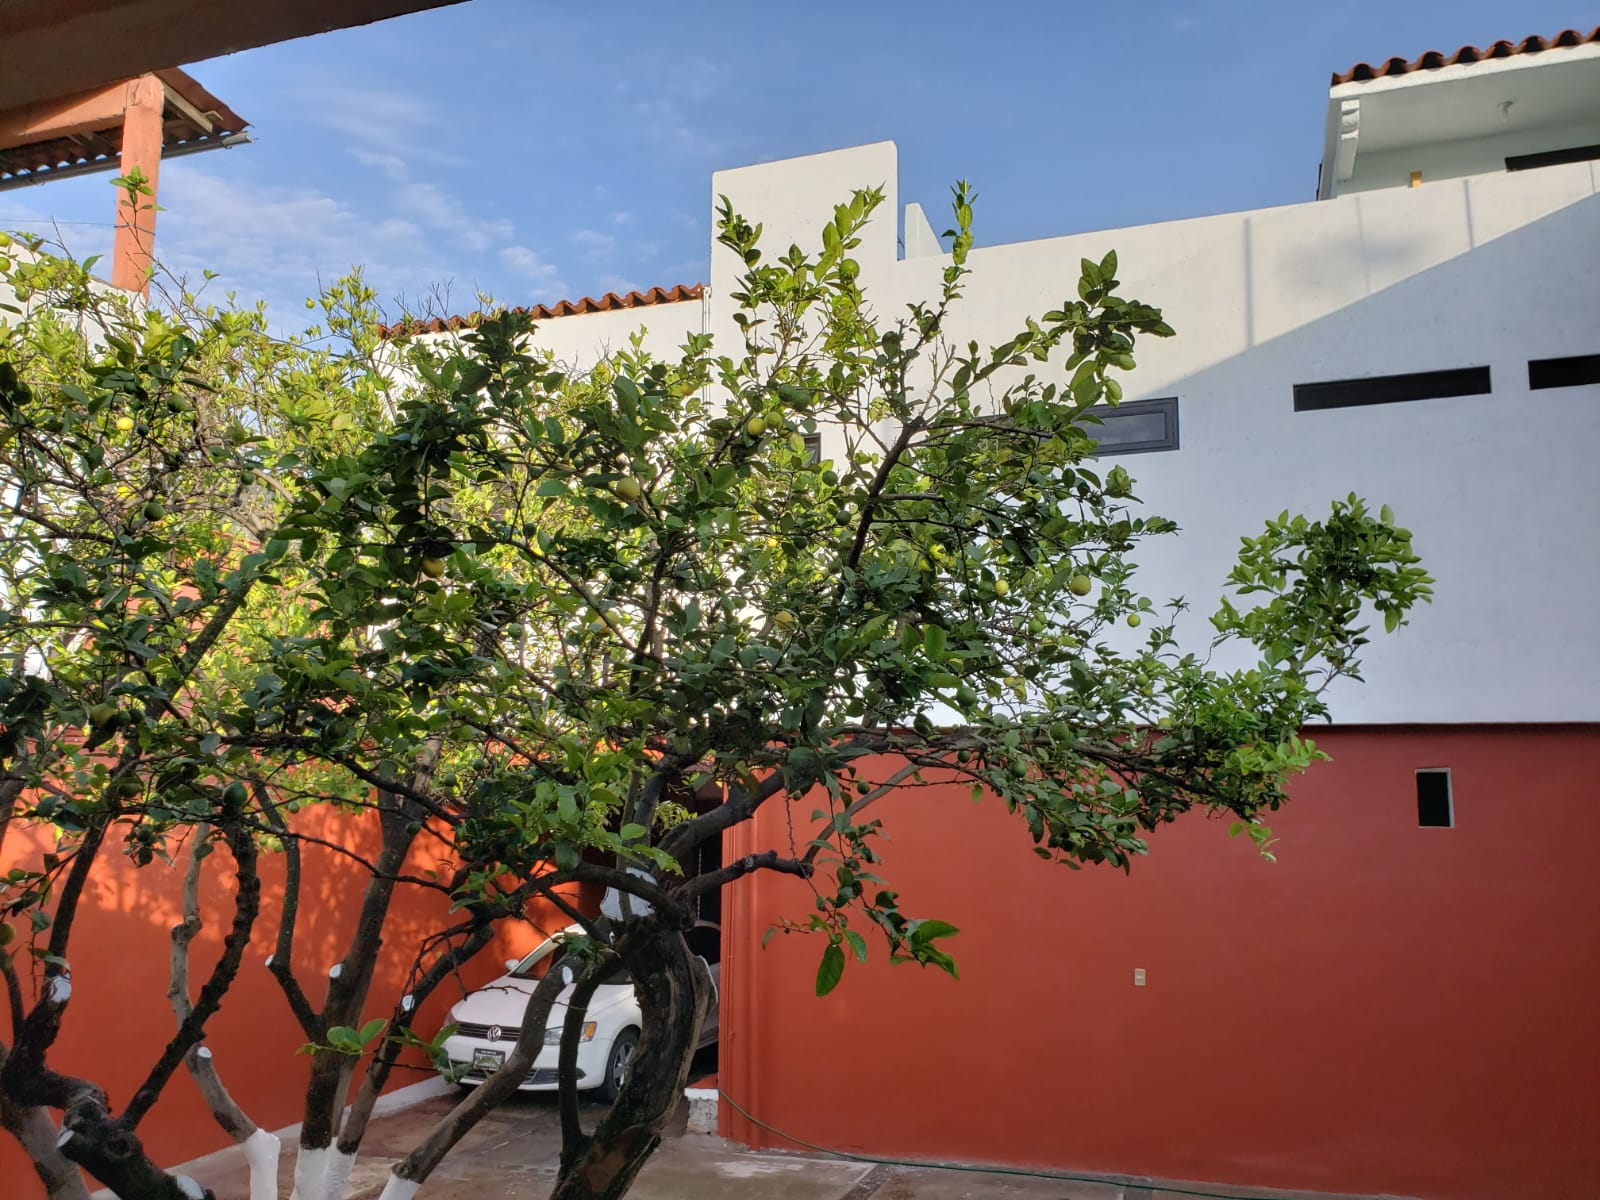
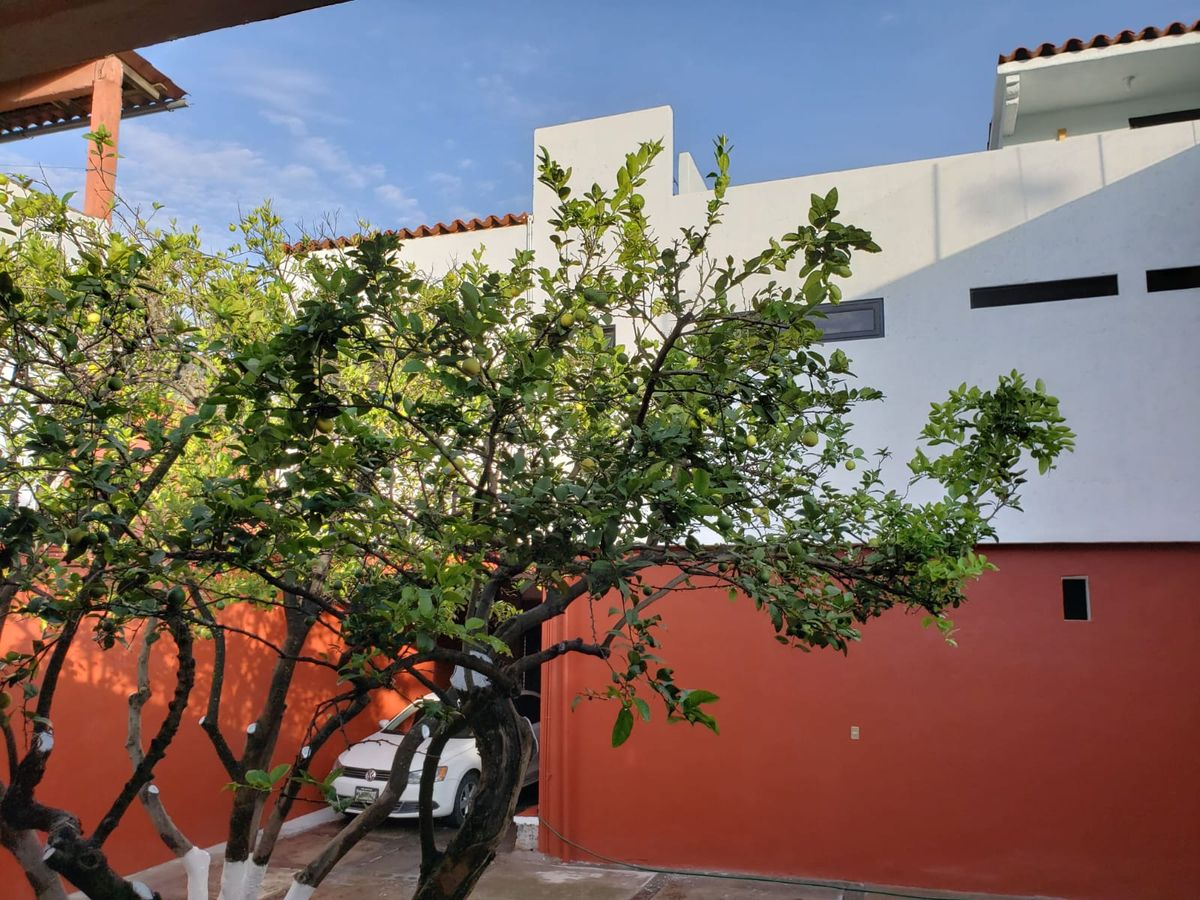
Perf: imágenes de propiedades a WebP + JPG recomprimido (#33)
* SEO: reescribe titles y meta descriptions de 9 posts (posicion 6-9) para subir CTR

Optimiza el title y la meta description de los posts con muchas impresiones
y CTR bajo (1-2%) en Search Console, poniendo la keyword al frente y un
angulo de destino/escapada alineado al objetivo de reserva directa.

Posts: malinalxochitl-leyenda, guerreros-aguila-jaguar, fiesta-divino-salvador,
malinalco-pueblo-magico-historia, 10-restaurantes-malinalco, subida-cerro-idolos,
convento-agustino-malinalco, donde-desayunar-malinalco, casa-de-las-aguilas.

Solo se tocan <title> y <meta name=description>; og:/twitter y JSON-LD intactos.

Claude-Session: https://claude.ai/code/session_01LVtjr9evHjkHtEahRNAHYH

* Home: enlaza la money page 'donde hospedarse' desde la seccion de blog

Agrega una 4a blog-card en el home que apunta a /blog/donde-hospedarse-malinalco/
con anchor text keyword-rich. El home es la pagina con mas autoridad del sitio;
este enlace interno ayuda a subir esa money page (hoy en posicion ~14 en Search
Console) y canaliza trafico a la reserva directa.

Claude-Session: https://claude.ai/code/session_01LVtjr9evHjkHtEahRNAHYH

* Money-page treatment para escapada-romantica y con-familia

Agrega a ambos posts los 2 elementos de conversion que les faltaban vs la
guia de hospedaje, para reforzar la intencion de reserva:
- Stat-box de confianza tras el hero (8 anios, 4.93, +400 resenias, desde
  $600, centro, -20% vs Airbnb) con estilos inline y rejilla responsive.
[…]

Changed region(s): [[0.3083, 0.3733, 0.3392, 0.4044], [0.0925, 0.3422, 0.1233, 0.3733]]

diff --git a/index.html b/index.html
@@ -1238,7 +1238,7 @@
 
       <!-- CANTERA -->
       <div class="depto-card">
-        <img src="./images/propiedades/depa-cantera.jpeg" alt="Departamento Cantera en Malinalco - Cantera y Calma" class="depto-img" loading="lazy">
+        <picture style="display:block"><source srcset="./images/propiedades/depa-cantera.webp" type="image/webp"><img src="./images/propiedades/depa-cantera.jpeg" alt="Departamento Cantera en Malinalco - Cantera y Calma" class="depto-img" loading="lazy"></picture>
         <div class="depto-body">
           <span class="depto-badge">Depa completo</span>
           <h3 class="depto-name">Departamento Cantera</h3>
@@ -1269,7 +1269,7 @@
 
       <!-- CALMA -->
       <div class="depto-card">
-        <img src="./images/propiedades/depa-calma.jpeg" alt="Departamento Calma en Malinalco - Cantera y Calma" class="depto-img" loading="lazy">
+        <picture style="display:block"><source srcset="./images/propiedades/depa-calma.webp" type="image/webp"><img src="./images/propiedades/depa-calma.jpeg" alt="Departamento Calma en Malinalco - Cantera y Calma" class="depto-img" loading="lazy"></picture>
         <div class="depto-body">
           <span class="depto-badge">Depa completo</span>
           <h3 class="depto-name">Departamento Calma</h3>
@@ -1300,7 +1300,7 @@
 
       <!-- MARNE 13 -->
       <div class="depto-card">
-        <img src="./images/propiedades/casa-marne13.jpeg" alt="Casa Marne 13 en Malinalco - Cantera y Calma" class="depto-img" loading="lazy">
+        <picture style="display:block"><source srcset="./images/propiedades/casa-marne13.webp" type="image/webp"><img src="./images/propiedades/casa-marne13.jpeg" alt="Casa Marne 13 en Malinalco - Cantera y Calma" class="depto-img" loading="lazy"></picture>
         <div class="depto-body">
           <span class="depto-badge">Casa completa</span>
           <h3 class="depto-name">Casa Marne 13</h3>
@@ -1331,7 +1331,7 @@
 
       <!-- MAGIA -->
       <div class="depto-card">
-        <img src="./images/propiedades/habitacion-magia.jpeg" alt="Habitación Magia en Malinalco - Cantera y Calma" class="depto-img" loading="lazy">
+        <picture style="display:block"><source srcset="./images/propiedades/habitacion-magia.webp" type="image/webp"><img src="./images/propiedades/habitacion-magia.jpeg" alt="Habitación Magia en Malinalco - Cantera y Calma" class="depto-img" loading="lazy"></picture>
         <div class="depto-body">
           <span class="depto-badge">Habitación</span>
           <h3 class="depto-name">Habitación Magia</h3>

diff --git a/PENDIENTES.md b/PENDIENTES.md
@@ -1,36 +1,41 @@
 # Pendientes — Cantera & Calma
 
-Lista de mejoras acordadas que quedaron pendientes para una sesión futura.
+Lista de mejoras acordadas. Se va actualizando conforme se completan.
 
 ---
 
-## 🖼 Optimizar imágenes (hero + propiedades) → WebP
+## ✅ Optimizar imágenes principales → WebP (hecho · 2026-10-28)
 
-**Objetivo:** reducir el peso de las imágenes para acelerar la descarga (sobre
-todo en 4G/celular) sin perder calidad visual. Complementa el `preload` del
-hero que ya se implementó.
+Se optimizaron la imagen del hero y las de propiedades a WebP con fallback
+JPG, priorizando el peso en celular (el grueso del tráfico).
 
-**Qué hacer:**
-- Generar versión **WebP** (calidad ~80) de cada imagen y servirla como formato
-  principal, dejando el `.jpeg/.jpg` como respaldo (`<picture>` con `<source
-  type="image/webp">`), o reemplazar directamente si todo el stack lo soporta.
-- Redimensionar a un ancho máximo razonable para su uso real (p. ej. tarjetas
-  ~800–1000 px de ancho; hero ~1920 px).
-- Mantener el `fetchpriority="high"` y el `preload` del hero apuntando al nuevo
-  archivo.
+**Hero (LCP):** `images/malinalco/ZonaArqueologica` → WebP responsive vía
+`image-set()` en el CSS del hero, con variante móvil dedicada de 800 px y
+preload responsive. El JPG principal se recomprimió a 1366 px (lo heredan las
+~24 referencias: blog cards, `og:image`, related).
 
-**Inventario y pesos actuales (al 2026-10-28):**
+| Variante | Antes | Ahora |
+|----------|------:|------:|
+| Hero móvil (800 px) | 457 KB | 116 KB WebP |
+| Hero desktop (1366 px) | 457 KB | 276 KB WebP |
 
-| Imagen | Ruta | Peso actual | Meta aprox. |
-|--------|------|------------:|------------:|
-| Hero (LCP) | `images/malinalco/ZonaArqueologica.jpg` | ~460 KB | 80–120 KB |
-| Casa Marne 13 | `images/propiedades/casa-marne13.jpeg` | ~452 KB | 60–90 KB |
-| Depto Cantera | `images/propiedades/depa-cantera.jpeg` | ~296 KB | 60–90 KB |
-| Depto Calma | `images/propiedades/depa-calma.jpeg` | ~136 KB | 40–70 KB |
-| Habitación Magia | `images/propiedades/habitacion-magia.jpeg` | ~120 KB | 40–70 KB |
+**Propiedades:** WebP + `<picture>` en las tarjetas del home; JPG recomprimido
+en sitio (raíz + `images/propiedades/`) para el resto de referencias y `og:image`.
 
-**Opcional (mismo trabajo):** optimizar también las imágenes del blog
-(`blog/**/*.jpg`) y la foto del host (`images/host/schummi-host.jpg`).
+| Imagen | Antes | JPG ahora | WebP |
+|--------|------:|----------:|-----:|
+| casa-marne13 | 450 KB | 221 KB | 201 KB |
+| depa-cantera | 295 KB | 203 KB | 152 KB |
+| depa-calma | 133 KB | 133 KB* | 105 KB |
+| habitacion-magia | 117 KB | 74 KB | 37 KB |
 
-**Nota:** requiere procesar las imágenes (no es solo HTML), por eso se dejó
-para una sesión dedicada.
+\* `depa-calma` ya venía bien comprimida; se dejó el JPG original y se sirve
+WebP en la tarjeta del home.
+
+---
+
+## ⏳ Opcional — imágenes del blog (`blog/**/*.jpg`)
+
+Mismo tratamiento (WebP + recompresión) para las imágenes dentro de los
+artículos y la foto del host (`schummi-host.jpg`). Menor prioridad: son
+`loading="lazy"` y no afectan el LCP de las páginas principales.
